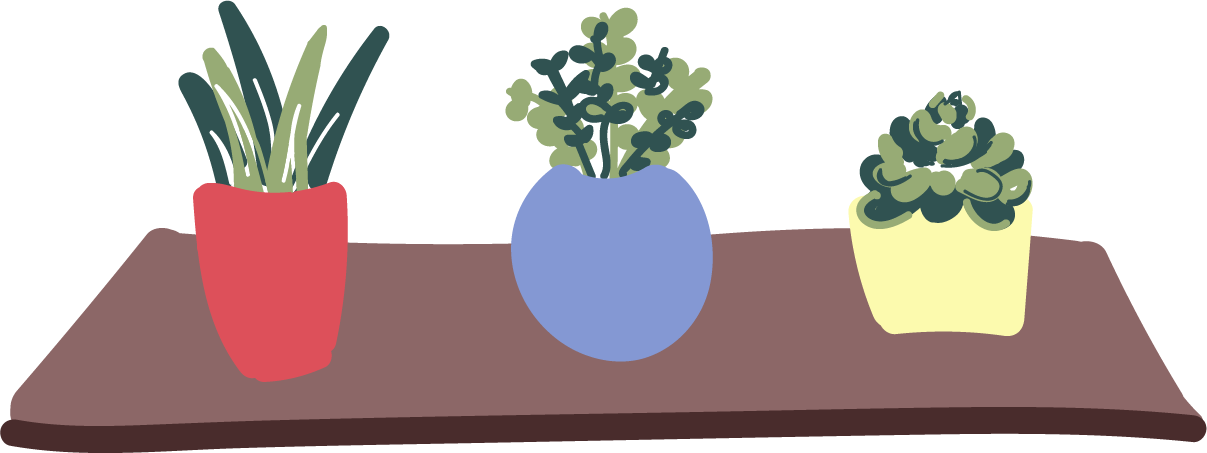
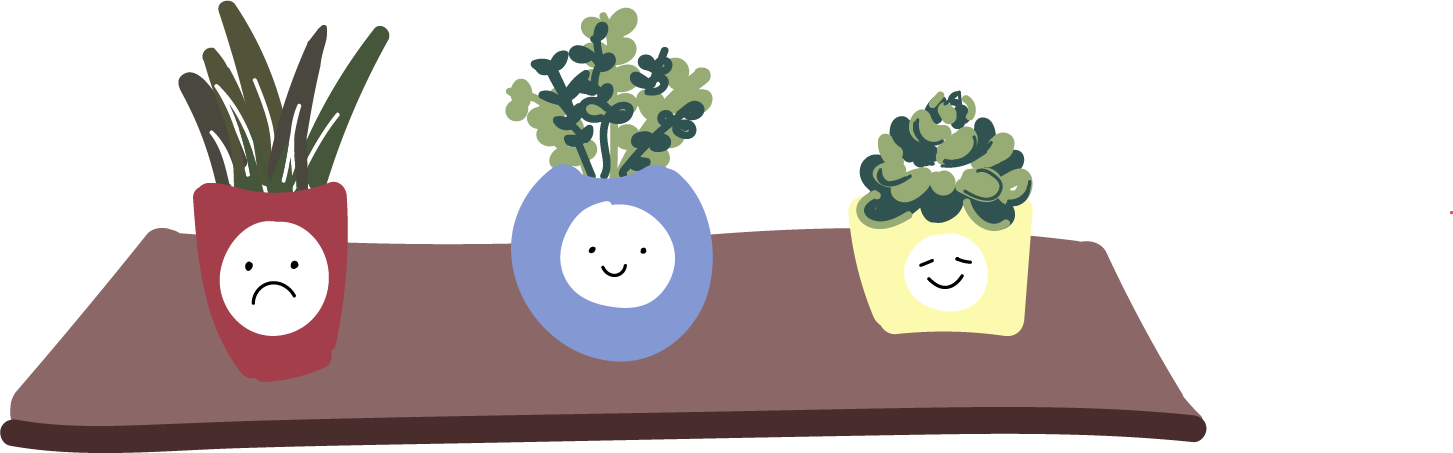
Shelf Alignment

diff --git a/public/css/home.css b/public/css/home.css
@@ -158,14 +158,29 @@ img {
   position: absolute;
   bottom: 5%;
   left: 0;
-  width: 30%;
-
+  width: 35%;
 }
 
 #person1 {
   position: absolute;
-  bottom: 2%;
-  left: 21.5%;
+  bottom: 1%;
+  left: 21%;
+  width: 4%;
+  border-radius: 25px;
+}
+
+#person2 {
+  position: absolute;
+  bottom: 1%;
+  left: 5%;
+  width: 4%;
+  border-radius: 25px;
+}
+
+#person3 {
+  position: absolute;
+  bottom: 1%;
+  left: 13%;
   width: 4%;
   border-radius: 25px;
 }
